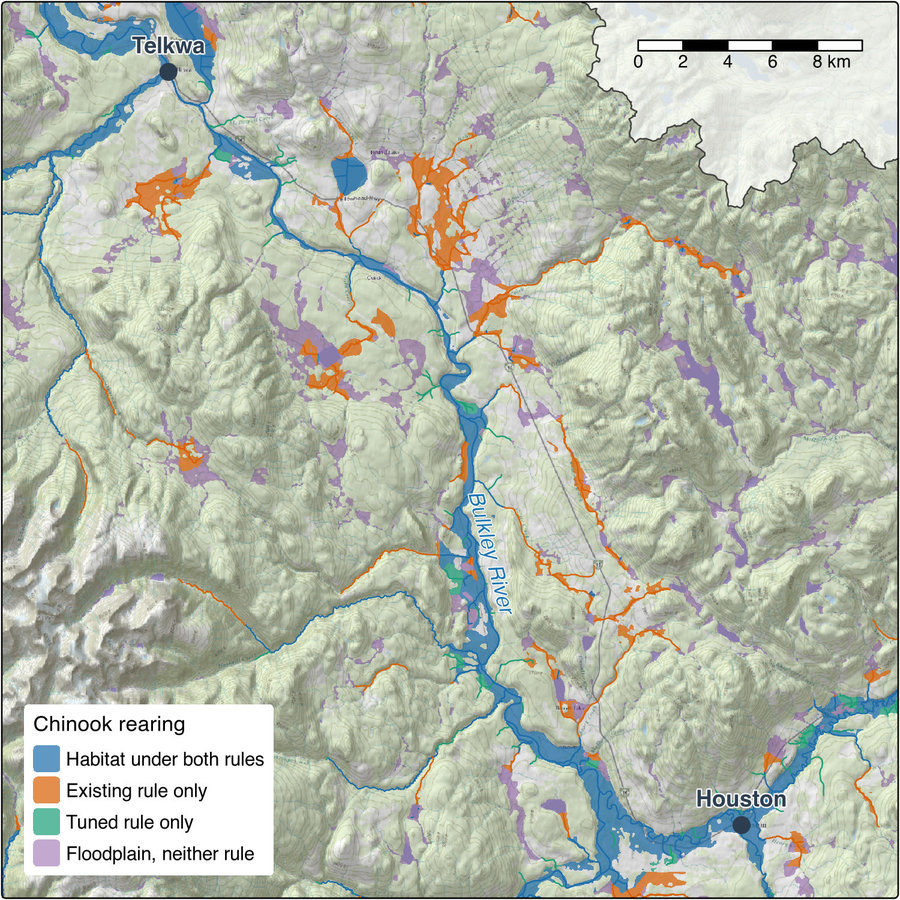
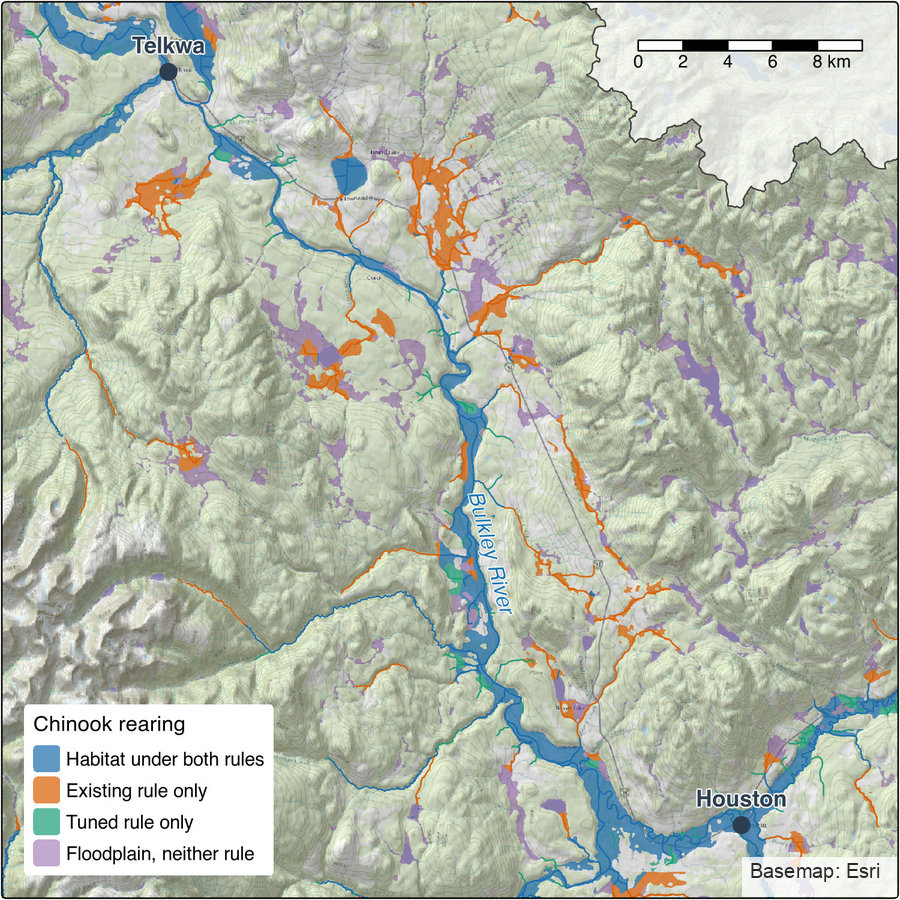
link legend: "No barrier, or a fixed crossing"; Esri credit on the restoration tile (#65)
Claude-Session: https://claude.ai/code/session_015Jk6BLCJR6akr2dUiE5A8m

Changed region(s): [[0.8089, 0.9333, 1.0, 1.0]]

diff --git a/planning/archive/2026-11-issue-65-open-source-knowledge-figures/README.md b/planning/archive/2026-11-issue-65-open-source-knowledge-figures/README.md
@@ -37,6 +37,9 @@ The owner reviewed the preview after the PR opened and changed the page:
 - Round 5 found the same gap in the knowledge map's floodplain layer, which the fix had reached in one script only, and a committed image older than the committed helper's 4 km town inset. The fade moved into one shared helper and the inset is 2.5 km.
 - Round 6 was clean, and ended on an enumeration: both script maps regenerated byte-identical from the committed code, every helper default checked against the images, and all nine copied figures compared with their sources. The one figure drawn past its data is the flooded scenarios map's strip south of the border, which the floodplain layers partly reach, left as it is.
 
+
+After round 6 the link legend's blue class became "No barrier, or a fixed crossing", and the restoration tile gained a "Basemap: Esri" credit. The owner waived review for these two.
+
 ## Owed
 
 - Merge the registry PR, on your word
